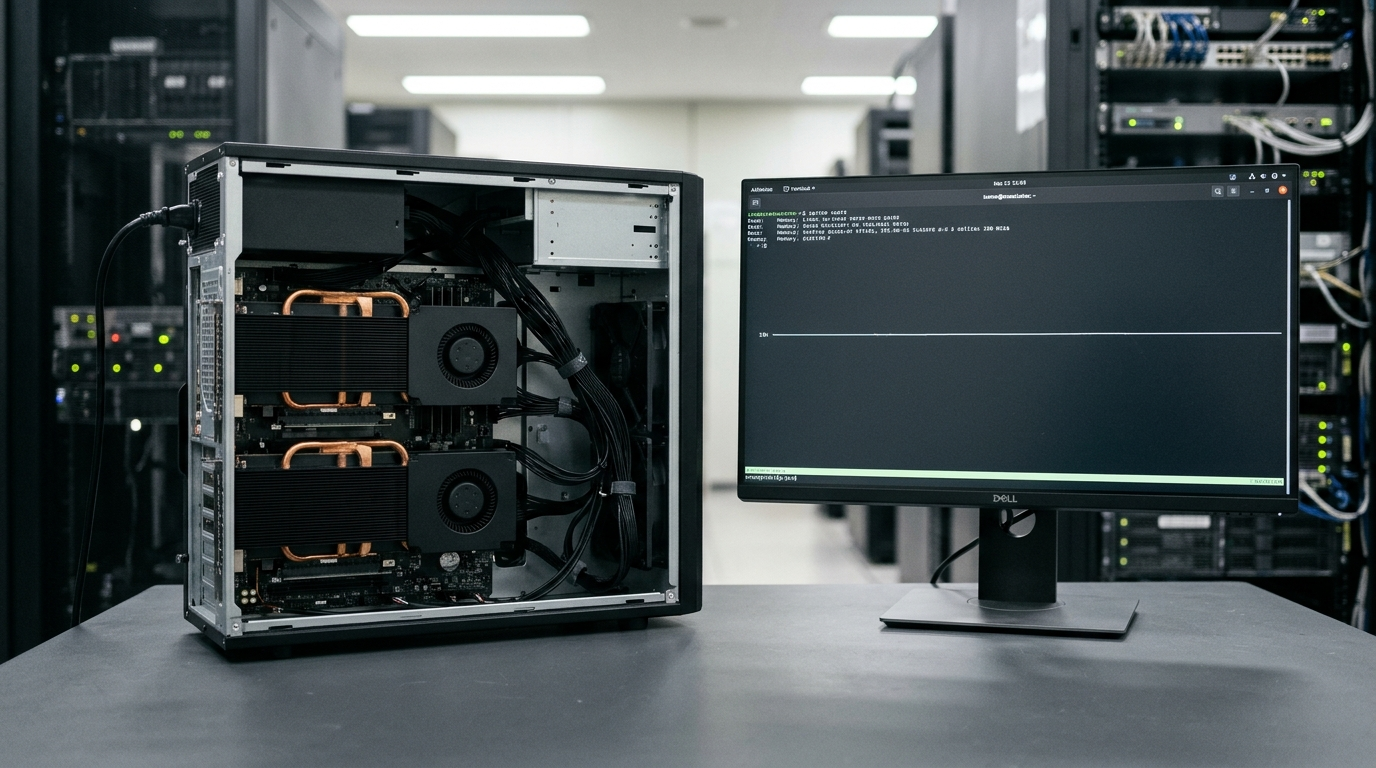
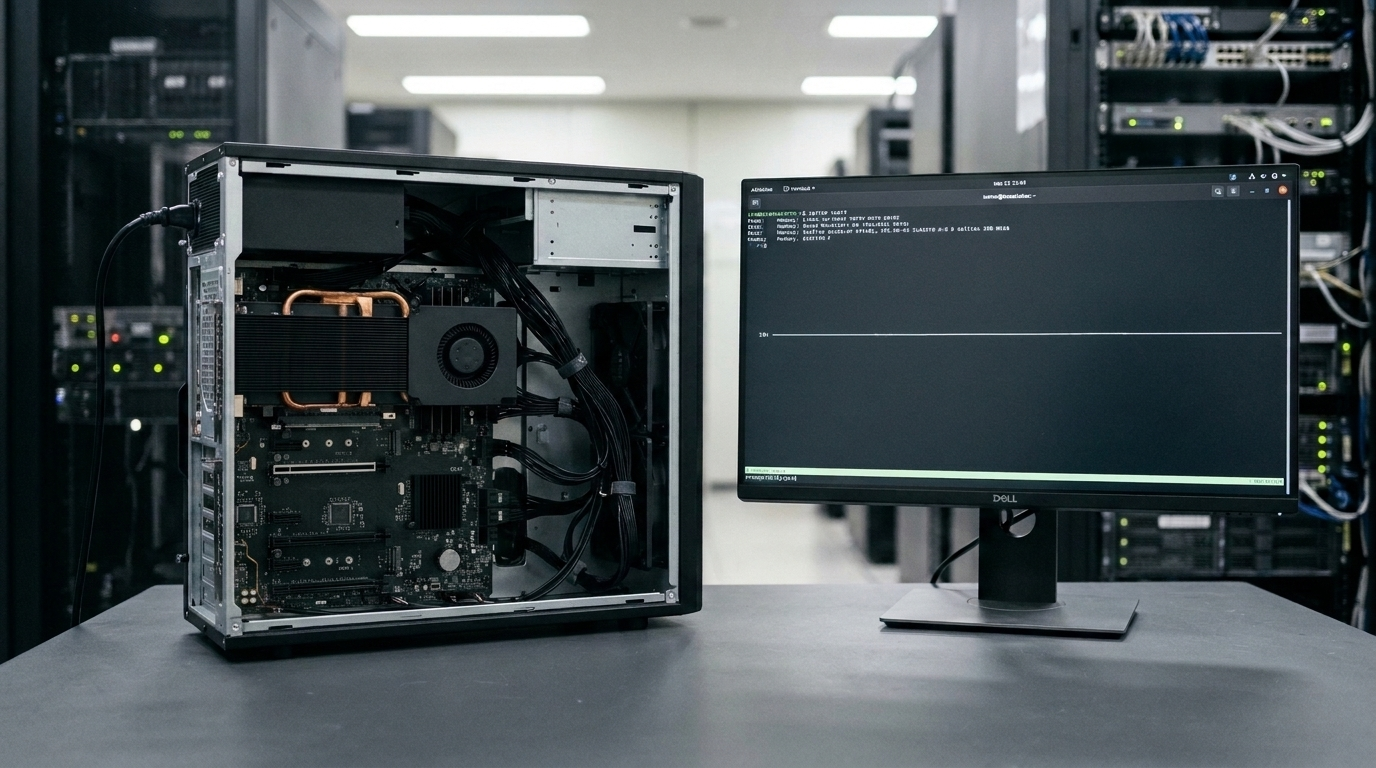
fix(assets): update service-5 workstation photo in service.html to single GPU configuration

Changed region(s): [[0.1562, 0.5625, 0.375, 0.8125], [0.5625, 0.2812, 0.5938, 0.3125]]

diff --git a/service.html b/service.html
@@ -234,7 +234,7 @@
                         <div id="faq-1" class="collapse show" data-bs-parent="#accordion-services">
                             <div class="accordion-content">
                                 <div class="image">
-                                    <img src="assets/images/section/service-5.jpg?v=20261102v50" alt="Cogni-OS Core 검수 통과 추론 런타임">
+                                    <img src="assets/images/section/service-5.jpg?v=20261106v158" alt="Cogni-OS Core 검수 통과 추론 런타임">
                                 </div>
                                 <div class="content">
                                     <div class="text-body-3 text-neutral-300 text">검수 관문(ATP)을 통과한 엔진만 탑재하는 교체형 폐쇄망 추론 런타임입니다. 1호기는 검증된 Gemma 4 + 기하 검증 + Tech-Audit으로 구동되며(2026.10 오프라인 노트북 gemma-4-e4b-it bf16 30회 실측 VRAM 14.8GB, TTFT 중앙값 0.161초 · 검증 보고서 요청 가능), 차세대 연구 엔진인 DEQ(심층 평형)와 Edge0-CUDA(SSD 전문가 스트리밍)는 관문 통과 순서대로 갱신 엔진에 투입됩니다. 확신이 부족할 때는 거짓 환각 대신 '판단 보류(모른다)'를 출력하고 로그에 남깁니다.</div>
